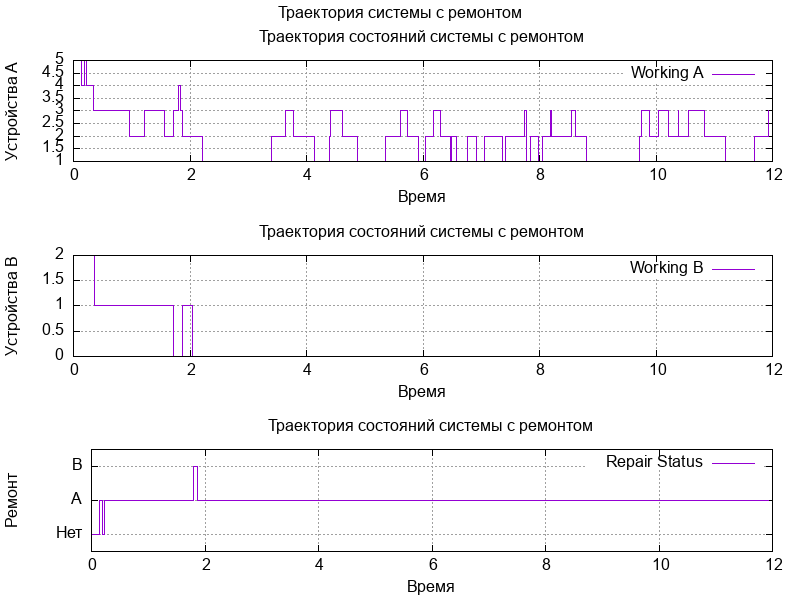
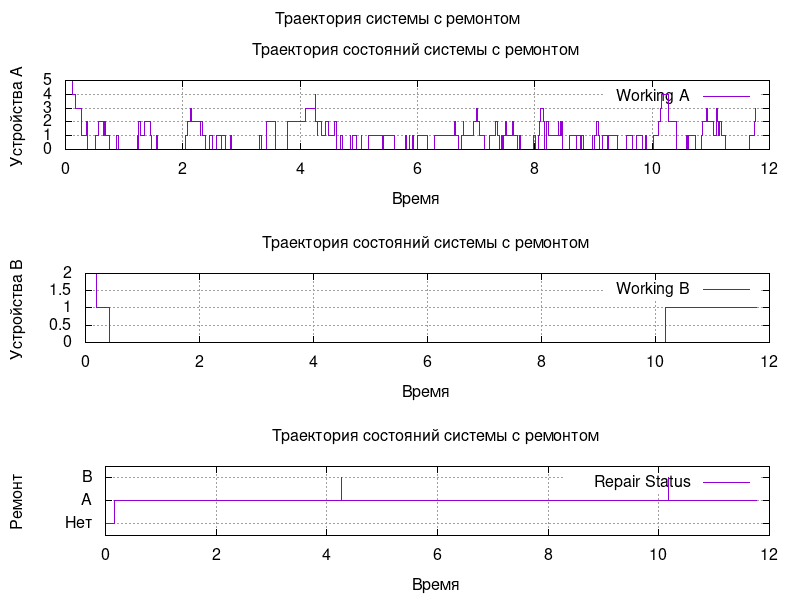
Improve 2.4

diff --git a/src/RepairableSimulator.cpp b/src/RepairableSimulator.cpp
@@ -28,12 +28,35 @@ std::vector<std::tuple<double, int, int, int>> RepairableSimulator::simulateMark
     std::uniform_real_distribution<double> uniformDist(0.0, 1.0);
 
     while (t < simulationTime) {
+        // Вычисляем интенсивности переходов из текущего состояния
+        double lambdaA = workingA * params.lambdaA;  // Интенсивность отказа устройства A
+        double lambdaB = workingB * params.lambdaB;  // Интенсивность отказа устройства B
+        double lambdaRepair = 0.0;  // Интенсивность ремонта
+        
+        // Определяем, какое устройство ремонтируется в данный момент
         int repairingA = (params.NA + params.RA) - workingA;
         int repairingB = (params.NB + params.RB) - workingB;
-
-        double lambdaA = workingA * params.lambdaA;
-        double lambdaB = workingB * params.lambdaB;
-        double lambdaRepair = (repairStatus > 0) ? params.lambdaS : 0.0;
+        
+        // Если есть устройства для ремонта, определяем интенсивность ремонта
+        if (repairingA > 0 || repairingB > 0) {
+            // Определяем, какое устройство ремонтируется
+            char deviceToRepair = '0';
+            if (repairingA > repairingB) {
+                deviceToRepair = 'A';
+            } else if (repairingB > repairingA) {
+                deviceToRepair = 'B';
+            } else if (repairingA > 0) {
+                deviceToRepair = (params.lambdaA >= params.lambdaB) ? 'A' : 'B';
+            }
+            
+            // Устанавливаем интенсивность ремонта
+            if (deviceToRepair != '0') {
+                lambdaRepair = params.lambdaS;
+                repairStatus = (deviceToRepair == 'A') ? 1 : 2;
+            }
+        } else {
+            repairStatus = 0;
+        }
 
         double totalRate = lambdaA + lambdaB + lambdaRepair;
 
@@ -41,6 +64,7 @@ std::vector<std::tuple<double, int, int, int>> RepairableSimulator::simulateMark
             break;
         }
 
+        // Генерируем время до следующего события
         double timeToNext = expDist(rng) / totalRate;
         t += timeToNext;
 
@@ -48,55 +72,28 @@ std::vector<std::tuple<double, int, int, int>> RepairableSimulator::simulateMark
             break;
         }
 
+        // Определяем, какое событие произошло
         double randomValue = uniformDist(rng);
         double cumulativeProb = lambdaA / totalRate;
 
         if (randomValue < cumulativeProb) {
+            // Отказ устройства A
             if (workingA > 0) {
                 workingA--;
-                if (repairStatus == 0) {
-                    repairStatus = 1;
-                }
             }
         } else {
             cumulativeProb += lambdaB / totalRate;
             if (randomValue < cumulativeProb) {
+                // Отказ устройства B
                 if (workingB > 0) {
                     workingB--;
-
-                    if (repairStatus == 0) {
-                        repairStatus = 2;
-                    }
                 }
             } else {
-                if (repairStatus == 1) {
+                // Ремонт устройства
+                if (repairStatus == 1 && repairingA > 0) {
                     workingA++;
-                    repairStatus = 0;
-
-                    int repairingA = (params.NA + params.RA) - workingA;
-                    int repairingB = (params.NB + params.RB) - workingB;
-
-                    if (repairingA > repairingB) {
-                        repairStatus = 1;
-                    } else if (repairingB > repairingA) {
-                        repairStatus = 2;
-                    } else if (repairingA > 0) {
-                        repairStatus = (params.lambdaA >= params.lambdaB) ? 1 : 2;
-                    }
-                } else if (repairStatus == 2) {
+                } else if (repairStatus == 2 && repairingB > 0) {
                     workingB++;
-                    repairStatus = 0;
-
-                    int repairingA = (params.NA + params.RA) - workingA;
-                    int repairingB = (params.NB + params.RB) - workingB;
-
-                    if (repairingA > repairingB) {
-                        repairStatus = 1;
-                    } else if (repairingB > repairingA) {
-                        repairStatus = 2;
-                    } else if (repairingA > 0) {
-                        repairStatus = (params.lambdaA >= params.lambdaB) ? 1 : 2;
-                    }
                 }
             }
         }
@@ -118,20 +115,18 @@ std::vector<std::tuple<double, int, int, int>> RepairableSimulator::simulateDisc
 
     std::priority_queue<Event, std::vector<Event>, std::greater<Event>> events;
 
-    std::exponential_distribution<double> expDistA(params.lambdaA);
-    std::exponential_distribution<double> expDistB(params.lambdaB);
-    std::exponential_distribution<double> expDistRepair(params.lambdaS);
-
+    // Планируем начальные события отказов для всех работающих устройств
     for (int i = 0; i < workingA; ++i) {
-        double failureTime = expDistA(rng);
+        double failureTime = std::exponential_distribution<double>(params.lambdaA)(rng);
         events.push(Event(failureTime, EventType::DEVICE_FAILURE_A));
     }
 
     for (int i = 0; i < workingB; ++i) {
-        double failureTime = expDistB(rng);
+        double failureTime = std::exponential_distribution<double>(params.lambdaB)(rng);
         events.push(Event(failureTime, EventType::DEVICE_FAILURE_B));
     }
 
+    // Планируем событие окончания симуляции
     events.push(Event(simulationTime, EventType::SIMULATION_END));
 
     double currentTime = 0.0;
@@ -146,17 +141,56 @@ std::vector<std::tuple<double, int, int, int>> RepairableSimulator::simulateDisc
             break;
         }
 
+        // Определяем, какое устройство ремонтируется в данный момент
+        int repairingA = (params.NA + params.RA) - workingA;
+        int repairingB = (params.NB + params.RB) - workingB;
+        
+        // Если есть устройства для ремонта, определяем, какое ремонтируется
+        if (repairingA > 0 || repairingB > 0) {
+            if (repairingA > repairingB) {
+                repairStatus = 1;  // Ремонт устройства A
+            } else if (repairingB > repairingA) {
+                repairStatus = 2;  // Ремонт устройства B
+            } else if (repairingA > 0) {
+                repairStatus = (params.lambdaA >= params.lambdaB) ? 1 : 2;
+            }
+            
+            // Если еще не запланировано событие ремонта, планируем его
+            bool repairEventExists = false;
+            std::priority_queue<Event, std::vector<Event>, std::greater<Event>> tempEvents;
+            
+            while (!events.empty()) {
+                Event event = events.top();
+                events.pop();
+                
+                if (event.type == EventType::DEVICE_REPAIR) {
+                    repairEventExists = true;
+                }
+                
+                tempEvents.push(event);
+            }
+            
+            events = tempEvents;
+            
+            if (!repairEventExists && repairStatus > 0) {
+                double repairTime = currentTime + std::exponential_distribution<double>(params.lambdaS)(rng);
+                events.push(Event(repairTime, EventType::DEVICE_REPAIR));
+            }
+        } else {
+            repairStatus = 0;
+        }
+
         switch (nextEvent.type) {
         case EventType::DEVICE_FAILURE_A:
             if (workingA > 0) {
                 workingA--;
-
-                if (repairStatus == 0) {
-                    repairStatus = 1;
-                    double repairTime = currentTime + expDistRepair(rng);
-                    events.push(Event(repairTime, EventType::DEVICE_REPAIR));
+                
+                // Планируем следующий отказ для оставшихся устройств A
+                if (workingA > 0) {
+                    double nextFailureTime = currentTime + std::exponential_distribution<double>(params.lambdaA)(rng);
+                    events.push(Event(nextFailureTime, EventType::DEVICE_FAILURE_A));
                 }
-
+                
                 trajectory.push_back(std::make_tuple(currentTime, workingA, workingB, repairStatus));
             }
             break;
@@ -164,67 +198,54 @@ std::vector<std::tuple<double, int, int, int>> RepairableSimulator::simulateDisc
         case EventType::DEVICE_FAILURE_B:
             if (workingB > 0) {
                 workingB--;
-
-                if (repairStatus == 0) {
-                    repairStatus = 2;
-                    double repairTime = currentTime + expDistRepair(rng);
-                    events.push(Event(repairTime, EventType::DEVICE_REPAIR));
+                
+                // Планируем следующий отказ для оставшихся устройств B
+                if (workingB > 0) {
+                    double nextFailureTime = currentTime + std::exponential_distribution<double>(params.lambdaB)(rng);
+                    events.push(Event(nextFailureTime, EventType::DEVICE_FAILURE_B));
                 }
-
+                
                 trajectory.push_back(std::make_tuple(currentTime, workingA, workingB, repairStatus));
             }
             break;
 
         case EventType::DEVICE_REPAIR:
             {
-                if (repairStatus == 1) {
+                if (repairStatus == 1 && repairingA > 0) {
                     workingA++;
-                    int repairingA = (params.NA + params.RA) - workingA;
-                    int repairingB = (params.NB + params.RB) - workingB;
-
-                    if (repairingA > 0 || repairingB > 0) {
-                        if (repairingA > repairingB) {
-                            repairStatus = 1;
-                        } else if (repairingB > repairingA) {
-                            repairStatus = 2;
-                        } else {
-                            repairStatus = (params.lambdaA >= params.lambdaB) ? 1 : 2;
-                        }
-
-                        double repairTime = currentTime + expDistRepair(rng);
-                        events.push(Event(repairTime, EventType::DEVICE_REPAIR));
-                    } else {
-                        repairStatus = 0;
-                    }
-                } else if (repairStatus == 2) {
+                    
+                    // Планируем отказ для отремонтированного устройства A
+                    double nextFailureTime = currentTime + std::exponential_distribution<double>(params.lambdaA)(rng);
+                    events.push(Event(nextFailureTime, EventType::DEVICE_FAILURE_A));
+                    
+                } else if (repairStatus == 2 && repairingB > 0) {
                     workingB++;
-                    int repairingA = (params.NA + params.RA) - workingA;
-                    int repairingB = (params.NB + params.RB) - workingB;
-
-                    if (repairingA > 0 || repairingB > 0) {
-                        if (repairingA > repairingB) {
-                            repairStatus = 1;
-                        } else if (repairingB > repairingA) {
-                            repairStatus = 2;
-                        } else {
-                            repairStatus = (params.lambdaA >= params.lambdaB) ? 1 : 2;
-                        }
-
-                        double repairTime = currentTime + expDistRepair(rng);
-                        events.push(Event(repairTime, EventType::DEVICE_REPAIR));
+                    
+                    // Планируем отказ для отремонтированного устройства B
+                    double nextFailureTime = currentTime + std::exponential_distribution<double>(params.lambdaB)(rng);
+                    events.push(Event(nextFailureTime, EventType::DEVICE_FAILURE_B));
+                }
+                
+                // Обновляем количество ремонтируемых устройств
+                repairingA = (params.NA + params.RA) - workingA;
+                repairingB = (params.NB + params.RB) - workingB;
+                
+                // Если еще есть устройства для ремонта, планируем следующий ремонт
+                if (repairingA > 0 || repairingB > 0) {
+                    if (repairingA > repairingB) {
+                        repairStatus = 1;
+                    } else if (repairingB > repairingA) {
+                        repairStatus = 2;
                     } else {
-                        repairStatus = 0;
+                        repairStatus = (params.lambdaA >= params.lambdaB) ? 1 : 2;
                     }
+                    
+                    double nextRepairTime = currentTime + std::exponential_distribution<double>(params.lambdaS)(rng);
+                    events.push(Event(nextRepairTime, EventType::DEVICE_REPAIR));
+                } else {
+                    repairStatus = 0;
                 }
-
-                if (repairStatus == 1) {
-                    double failureTime = currentTime + expDistA(rng);
-                    events.push(Event(failureTime, EventType::DEVICE_FAILURE_A));
-                } else if (repairStatus == 2) {
-                    double failureTime = currentTime + expDistB(rng);
-                    events.push(Event(failureTime, EventType::DEVICE_FAILURE_B));
-                }
-
+                
                 trajectory.push_back(std::make_tuple(currentTime, workingA, workingB, repairStatus));
             }
             break;

diff --git a/main.cpp b/main.cpp
@@ -195,7 +195,23 @@ void runTask2(int N, int G) {
     Separate(4);
     std::cout << "Расчет предельных вероятностей состояний системы:" << "\n";
     Eigen::VectorXd steadyStateProbs = model.solveSteadyStateEquations();
-    std::cout << "Предельные вероятности рассчитаны" << "\n";
+    
+    // Агрегируем предельные вероятности по состояниям (a,b), игнорируя состояние ремонта
+    Eigen::VectorXd aggregatedProbs = model.getAggregatedStateProbabilities(steadyStateProbs);
+    
+    std::cout << "Предельные вероятности рассчитаны (18 состояний):" << "\n";
+    
+    const int totalA = params.NA + params.RA + 1;
+    const int totalB = params.NB + params.RB + 1;
+    
+    for (int a = 0; a < totalA; ++a) {
+        for (int b = 0; b < totalB; ++b) {
+            int aggregatedIndex = b * totalA + a;
+            if (aggregatedProbs(aggregatedIndex) > 0.001) {  // Выводим только значимые вероятности
+                std::cout << "P(" << a << "," << b << ") = " << aggregatedProbs(aggregatedIndex) << "\n";
+            }
+        }
+    }
 
     Separate(5);
     std::cout << "Расчет математических ожиданий прикладных характеристик системы:" << "\n";
